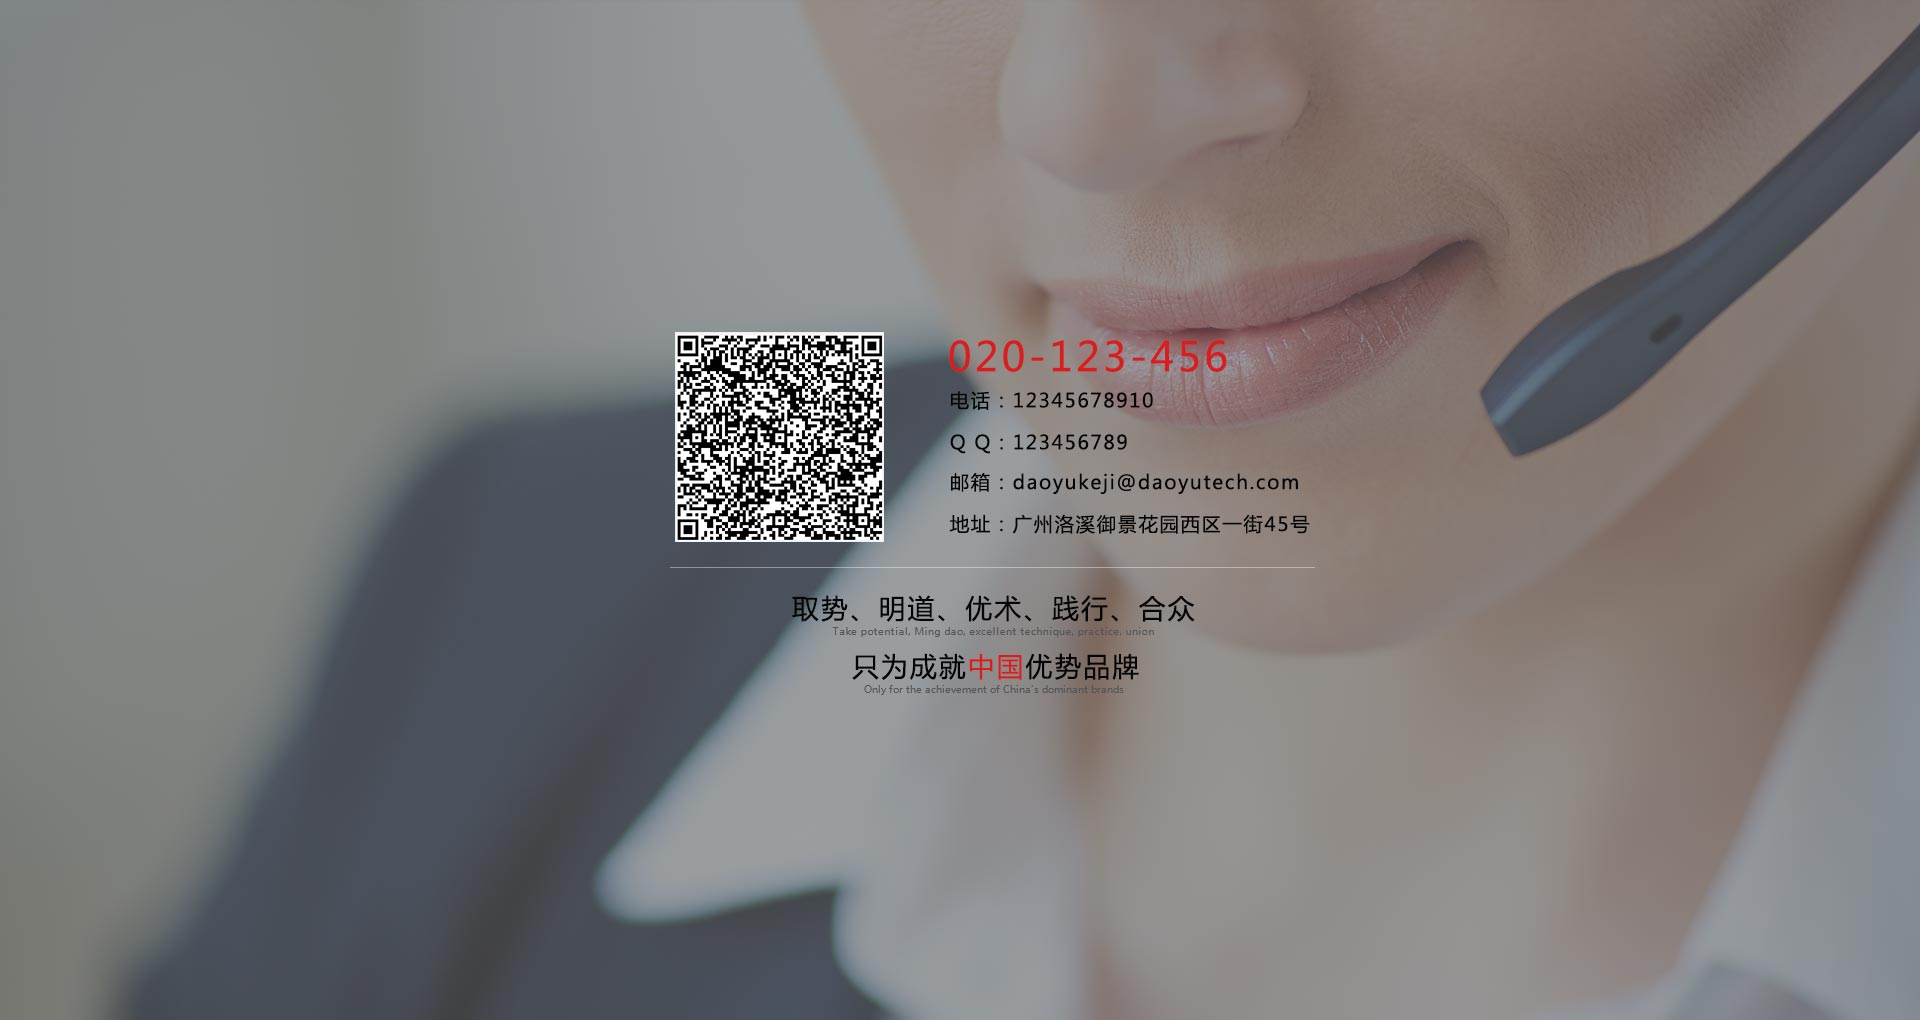
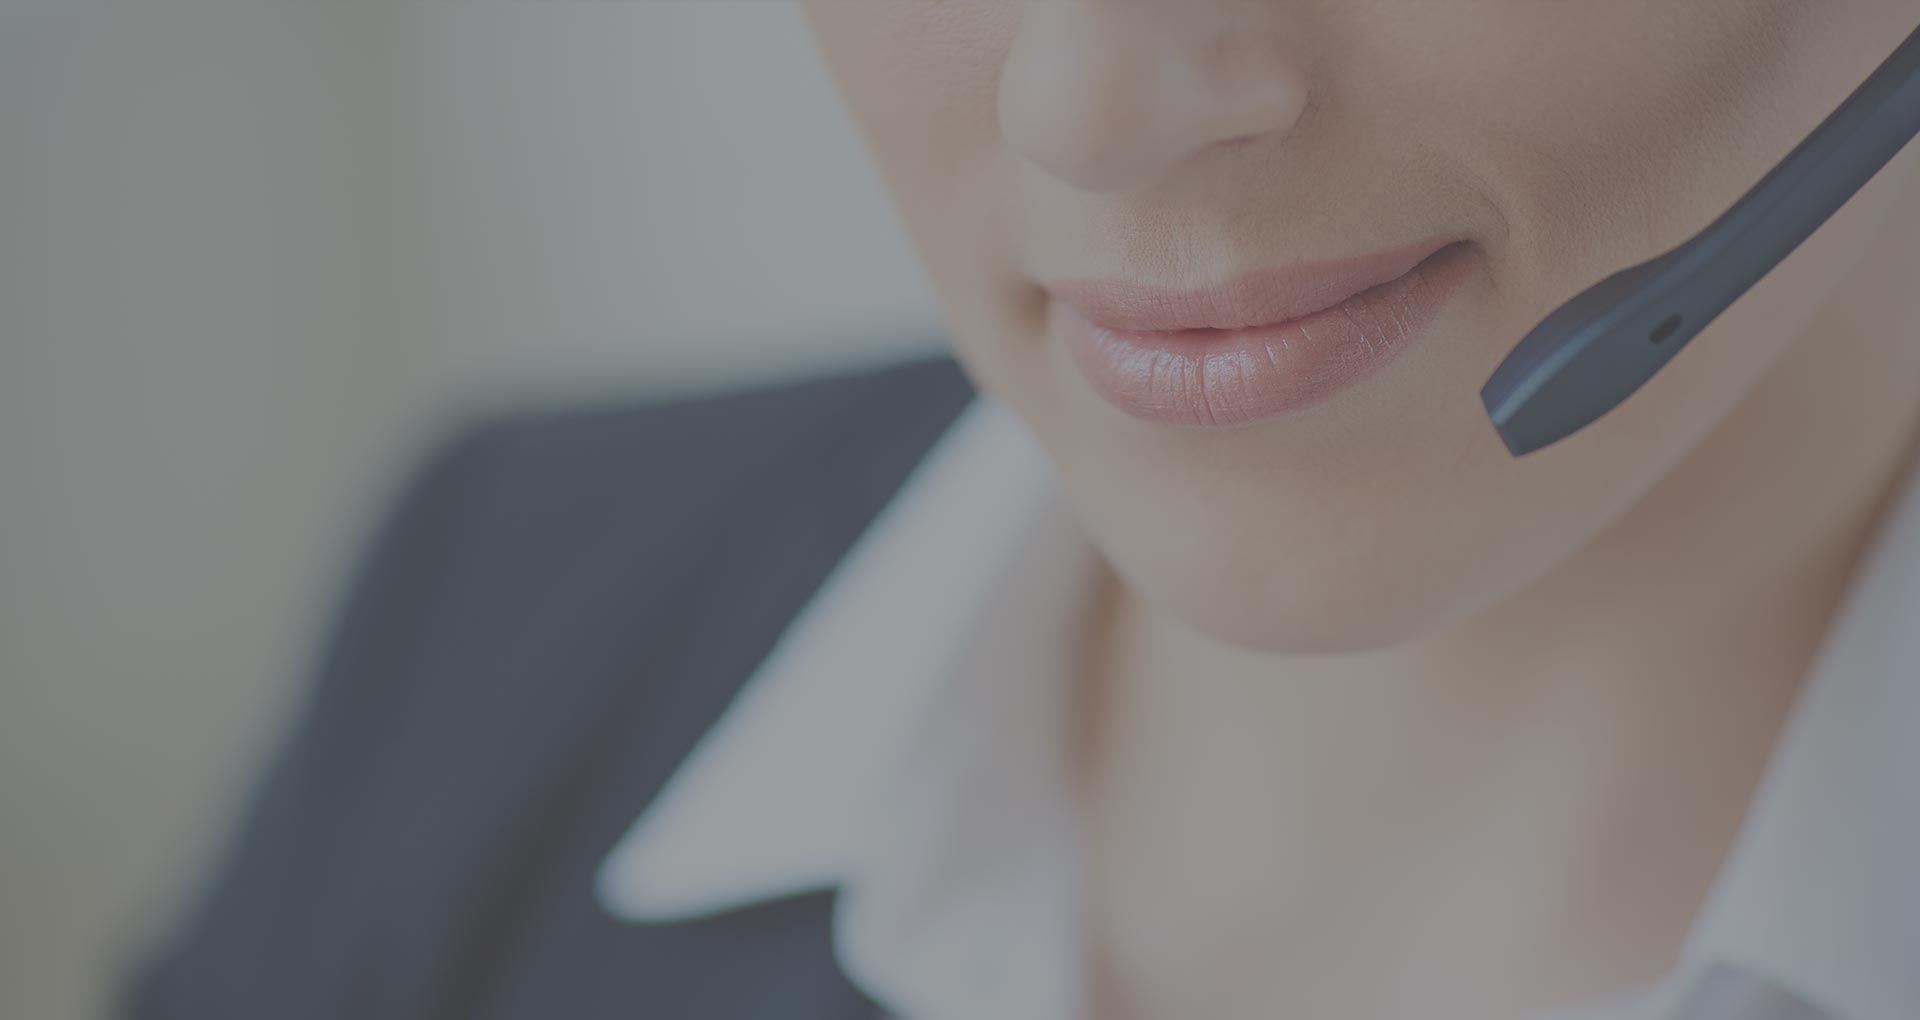
update

Changed region(s): [[0.3438, 0.3039, 0.6562, 0.5471], [0.5, 0.4255, 0.6875, 0.5471], [0.4062, 0.5775, 0.625, 0.6686]]

diff --git a/css/main.css b/css/main.css
@@ -72,6 +72,12 @@ img {
 
 #section3 {
   background-image: url(../img/bg4.jpg); }
+  #section3 .fp-tableCell {
+    text-align: center;
+    display: table-cell; }
+  #section3 img {
+    height: 260px;
+    opacity: 0; }
 
 .slide {
   width: 33.333%;
@@ -184,7 +190,8 @@ img {
       left: 50%;
       margin-left: -272px;
       top: 50%;
-      margin-top: -208px; }
+      margin-top: -208px;
+      opacity: 0; }
 
 .business {
   width: 800px;
@@ -209,6 +216,7 @@ img {
     .business li a.on {
       border-bottom: solid 2px #cf2223; }
   .business .right {
+    top: -130px;
     margin-left: 206px;
     float: left;
     width: 700px;
@@ -232,6 +240,19 @@ img {
         height: 500px;
         width: 700px;
         float: left; }
+    .business .right .con {
+      padding-top: 130px; }
+    .business .right .con1 {
+      padding-top: 0; }
+      .business .right .con1 img {
+        height: 360px; }
+      .business .right .con1 .slide {
+        text-align: center; }
+    .business .right .con3 {
+      padding-top: 30px;
+      text-align: center; }
+      .business .right .con3 img {
+        height: 400px; }
 
 @media (max-width: 960px) and (max-height: 700px) {
   .banner3 {
@@ -256,6 +277,12 @@ img {
           width: 25%; }
         .business .right .scrolldiv p {
           padding: 0 10%; }
+      .business .right .con {
+        padding-top: 0; }
+      .business .right .con1 img {
+        margin-top: 70px; }
+      .business .right .con3 img {
+        margin-top: 70px; }
 
   .change {
     width: 100%; }
@@ -325,6 +352,20 @@ img {
     height: 288px;
     margin-left: -185px;
     margin-top: -144px; } }
+@media (max-width: 590px) {
+  .business .right .con1 img {
+    margin-top: 70px;
+    height: auto;
+    width: 95%; }
+  .business .right .con3 {
+    padding-top: 0px; }
+    .business .right .con3 img {
+      height: auto;
+      width: 95%; }
+
+  #section3 img {
+    height: auto;
+    width: 90%; } }
 @media (max-width: 420px) {
   .logo img {
     height: 52px; }
@@ -416,16 +457,14 @@ img {
     -webkit-transform: none;
     -ms-transform: none;
     transform: none; } }
-.fadeInUpBig {
-  -webkit-animation-name: fadeInUpBig;
-  animation-name: fadeInUpBig; }
-
 @-webkit-keyframes zoomIn {
   0% {
     opacity: 0;
     -webkit-transform: scale3d(0.3, 0.3, 0.3);
     transform: scale3d(0.3, 0.3, 0.3); }
   50% {
+    opacity: 1; }
+  100% {
     opacity: 1; } }
 @keyframes zoomIn {
   0% {
@@ -434,6 +473,8 @@ img {
     -ms-transform: scale3d(0.3, 0.3, 0.3);
     transform: scale3d(0.3, 0.3, 0.3); }
   50% {
+    opacity: 1; }
+  100% {
     opacity: 1; } }
 .animate .banner1 .top, .animate .banner1 .bottom {
   top: 0px;
@@ -445,12 +486,14 @@ img {
   opacity: 0.5;
   filter: alpha(opacity=50); }
 .animate.banner2 .box {
-  animation: fadeInLeft .5s both 0.3s;
-  -webkit-animation: fadeInLeft .5s both 0.3s; }
+  animation: fadeInLeft .5s linear 0.4s both;
+  -webkit-animation: fadeInLeft .5s linear 0.4s both; }
 .animate.banner3 .box span.camera {
-  animation: zoomIn 1s linear 0s 2;
-  -webkit-animation: zoomIn 1s linear 0s 2;
-  -webkit-animation-fill-mode: forwards;
-  animation-fill-mode: forwards; }
+  animation: zoomIn 1s linear 0s 2 both;
+  -webkit-animation: zoomIn 1s linear 0s 2 both; }
+
+.active .contact {
+  animation: fadeInUpBig .5s linear 0.3s both;
+  -webkit-animation: fadeInUpBig .5s linear 0.3s both; }
 
 /*# sourceMappingURL=main.css.map */

diff --git a/css/main.scss b/css/main.scss
@@ -93,6 +93,14 @@ img{
 
 #section3 {
   background-image: url(../img/bg4.jpg);
+  .fp-tableCell{
+    text-align: center;
+    display: table-cell;
+  }
+  img{
+    height: 260px;
+    opacity: 0;
+  }
 }
 
 .slide {
@@ -231,7 +239,7 @@ img{
       margin-left: -272px;
       top: 50%;
       margin-top: -208px;
-      //opacity: 0;
+      opacity: 0;
     }
   }
 }
@@ -264,6 +272,7 @@ img{
   }
   .right{
     //background: #ddd;
+    top: -130px;
     margin-left: 206px;
     p{
       color: #eeeeee;
@@ -291,6 +300,22 @@ img{
       top: 0;
       width: 3000px;
       left: 0;
+    }
+    .con{
+      padding-top: 130px;
+
+    }
+    .con1 {
+      padding-top: 0;
+      img{    height: 360px;}
+      .slide{
+        text-align: center;
+      }
+    }
+    .con3 {
+      padding-top: 30px;
+      img{    height: 400px;}
+      text-align: center;
     }
   }
 
@@ -329,6 +354,16 @@ img{
         p{
           padding: 0 10%;
         }
+      }
+      .con{
+        padding-top: 0;
+      }
+      .con1 {
+        img{ margin-top: 70px;
+        }
+      }
+      .con3 {
+        img{  margin-top: 70px;}
       }
     }
   }
@@ -421,6 +456,35 @@ img{
     }
 
   }
+}
+@media (max-width: 590px){
+  .business{
+
+    .right{
+
+      .con1 {
+        img{ margin-top: 70px;
+          height: auto;
+          width: 95%;
+        }
+      }
+      .con3 {
+        padding-top: 0px;
+        img {
+          height: auto;
+          width: 95%;
+        }
+      }
+    }
+  }
+  #section3 {
+
+    img{
+      height: auto;
+      width: 90%;
+    }
+  }
+
 }
 @media (max-width: 420px){
   .logo img {
@@ -558,10 +622,10 @@ img{
   }
 }
 
-.fadeInUpBig {
-  -webkit-animation-name: fadeInUpBig;
-  animation-name: fadeInUpBig
-}
+//.fadeInUpBig {
+//  -webkit-animation-name: fadeInUpBig;
+//  animation-name: fadeInUpBig
+//}
 
 @-webkit-keyframes zoomIn {
   0% {
@@ -571,6 +635,9 @@ img{
   }
 
   50% {
+    opacity: 1
+  }
+  100% {
     opacity: 1
   }
 }
@@ -584,6 +651,9 @@ img{
   }
 
   50% {
+    opacity: 1
+  }
+  100% {
     opacity: 1
   }
 }
@@ -606,8 +676,8 @@ img{
     }
     .box {
 
-      animation:fadeInLeft .5s both 0.3s;
-      -webkit-animation:fadeInLeft .5s both 0.3s;
+      animation:fadeInLeft .5s linear 0.4s both;
+      -webkit-animation:fadeInLeft .5s linear 0.4s both;
 
     }
   }
@@ -615,13 +685,19 @@ img{
     .box{
       span.camera{
 
-        animation: zoomIn 1s linear 0s 2;
-        -webkit-animation: zoomIn 1s linear 0s 2;
-
-        -webkit-animation-fill-mode: forwards;
-        animation-fill-mode: forwards;
+        animation: zoomIn 1s linear 0s 2 both;
+        -webkit-animation: zoomIn 1s linear 0s 2 both;
+        //
+        //-webkit-animation-fill-mode: forwards;
+        //animation-fill-mode: forwards;
 //animation: name duration timing-function delay iteration-count direction;
       }
     }
   }
+}
+.active{
+    .contact{
+      animation:fadeInUpBig .5s linear 0.3s both;
+      -webkit-animation:fadeInUpBig .5s linear 0.3s both;
+    }
 }

diff --git a/index.html b/index.html
@@ -92,6 +92,11 @@
     <script src="http://cdn.bootcss.com/jquery/1.8.3/jquery.min.js"></script>
     <script src="http://cdn.bootcss.com/fullPage.js/2.8.2/jquery.fullPage.min.js"></script>
     <script src="js/main.js"></script>
+    <!--<link rel="stylesheet" href="css/jquery.fullPage.min.css">-->
+    <!--<link rel="stylesheet" href="css/main.css"/>-->
+    <!--<script src="js/jquery.min.js"></script>-->
+    <!--<script src="js/jquery.fullPage.min.js"></script>-->
+    <!--<script src="js/main.js"></script>-->
 
 </head>
 
@@ -169,9 +174,10 @@
             <div class="right">
                 <div class="scrolldiv">
 
-                <div class="con">
-                 <div class="slide">11dsfsf</div>
-                 <div class="slide">2222dsfsf</div>
+                <div class="con con1">
+                 <div class="slide"><img src="img/lzx.png" alt=""/></div>
+                 <div class="slide"><img src="img/lzx.png" alt=""/></div>
+                 <div class="slide"><img src="img/lzx.png" alt=""/></div>
                 </div>
                 <div class="con">
                     <p class="p1">道昱全网整合营销重策略更重执行，效果衡量标准化，数字化。</p>
@@ -182,12 +188,8 @@
                     <p>受到营销活动和以往使用体验的影响，客户能立即将品牌转化为一系列与该品牌相关的产品、企业、品质、技术等信息</p>
                     <p>使客户在使用中获得企业所期望的满足感，使客户通过购买和使用某品牌而改变对自己的看法，获得更好的自我感觉</p>
                 </div>
-                <div class="con">
-                    <p class="p1">我们的理念：</p>
-                    <p class="p2" style="text-indent: 2em">你的门面，我的脸面。我们的承诺是——绝不打脸。</p>
-                    <p>丰富的传播形式，全面满足客户不同的投放需求</p>
-                    <p>严谨的服务管理：明确服务流程，提高工作效率</p>
-                    <p>超越竞争 给你崭新的创意体验</p>
+                <div class="con con3">
+                    <img src="img/technology.png" alt=""/>
                 </div>
                 <div class="con">
                     <p class="p1">我们的理念：</p>
@@ -202,7 +204,7 @@
         </div>
     </div>
     <div class="section" id="section3">
-
+        <img class="contact" src="img/contact.png" alt=""/>
     </div>
 </div>
 
